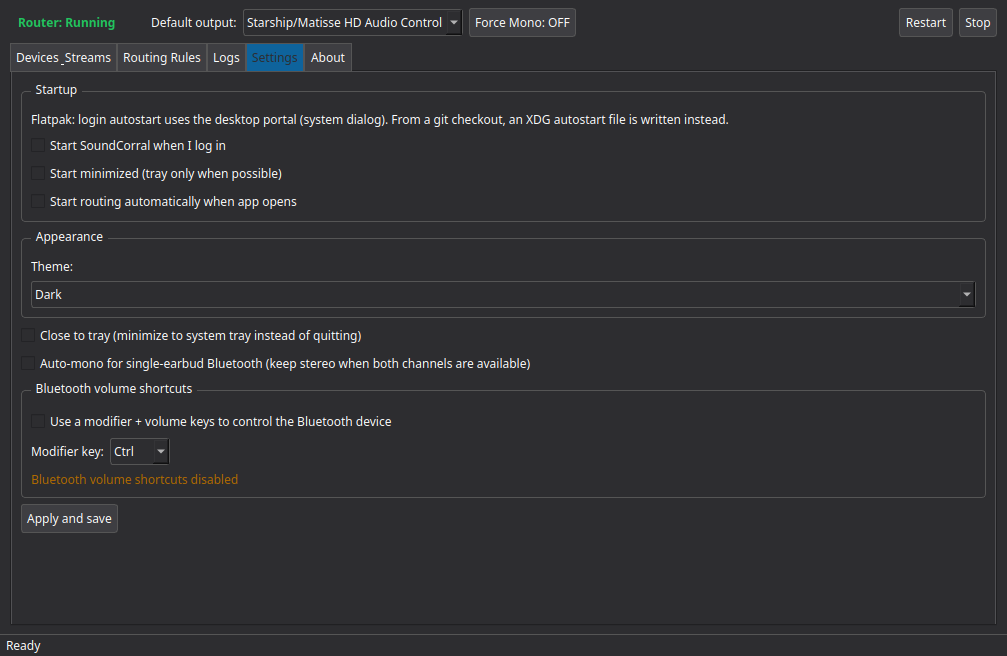
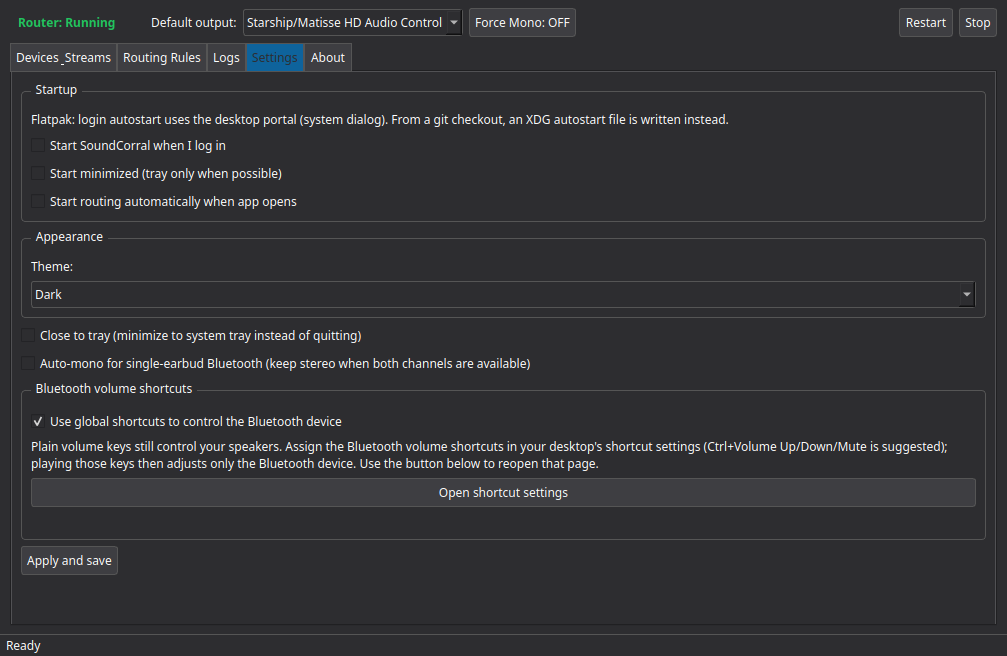
Fix shortcut signal path and explain Bluetooth volume shortcuts

Changed region(s): [[0.0308, 0.6098, 0.9543, 0.8841]]

diff --git a/src/audio_router_gui.py b/src/audio_router_gui.py
@@ -693,7 +693,6 @@ def _load_app_settings() -> Dict[str, Any]:
         "theme": str,
         "devices_streams_split_pct": int,
         "volume_shortcuts_enabled": bool,
-        "volume_shortcut_modifier": str,
     }
     s = QSettings("io.github.crashman79", "sinkswitch")
     out: Dict[str, Any] = {}
@@ -744,7 +743,6 @@ def _save_app_settings(data: Dict[str, Any]) -> None:
         "theme",
         "devices_streams_split_pct",
         "volume_shortcuts_enabled",
-        "volume_shortcut_modifier",
     }
     s = QSettings("io.github.crashman79", "sinkswitch")
     s.beginGroup("prefs")
@@ -1189,7 +1187,6 @@ class AudioRouterGUI(QMainWindow):
         self.devices_streams_split_pct = int(settings.get('devices_streams_split_pct', 50) or 50)
         self.devices_streams_split_pct = max(20, min(80, self.devices_streams_split_pct))
         self.volume_shortcuts_enabled = settings.get('volume_shortcuts_enabled', True)
-        self.volume_shortcut_modifier = settings.get('volume_shortcut_modifier', 'Ctrl')
         self._volume_engine: Optional['AudioRouterEngine'] = None
         self._status_icon_cache: Dict[str, QIcon] = {}
         self._device_type_icon_cache: Dict[str, QIcon] = {}
@@ -1752,29 +1749,28 @@ class AudioRouterGUI(QMainWindow):
         vol_group = QGroupBox("Bluetooth volume shortcuts")
         vol_layout = QVBoxLayout()
         self.volume_shortcuts_check = QCheckBox(
-            "Use a modifier + volume keys to control the Bluetooth device"
+            "Use global shortcuts to control the Bluetooth device"
         )
         self.volume_shortcuts_check.setChecked(self.volume_shortcuts_enabled)
         self.volume_shortcuts_check.setToolTip(
             "Plain volume keys still control your main/speaker output (handled by the "
-            "desktop). Hold the chosen modifier with Volume Up/Down/Mute to adjust the "
-            "Bluetooth device instead."
+            "desktop). The shortcut keys are assigned in your desktop's shortcut "
+            "settings; SoundCorral suggests Ctrl+Volume Up/Down/Mute."
         )
         vol_layout.addWidget(self.volume_shortcuts_check)
 
-        mod_row = QHBoxLayout()
-        mod_row.addWidget(QLabel("Modifier key:"))
-        self.volume_shortcut_modifier_combo = QComboBox()
-        self.volume_shortcut_modifier_combo.addItems(["Ctrl", "Super", "Alt"])
-        idx = {"Ctrl": 0, "Super": 1, "Alt": 2}.get(self.volume_shortcut_modifier, 0)
-        self.volume_shortcut_modifier_combo.setCurrentIndex(idx)
-        self.volume_shortcut_modifier_combo.setEnabled(self.volume_shortcuts_enabled)
-        self.volume_shortcuts_check.toggled.connect(
-            self.volume_shortcut_modifier_combo.setEnabled
+        explainer = QLabel(
+            "Plain volume keys still control your speakers. Assign the Bluetooth "
+            "volume shortcuts in your desktop's shortcut settings (Ctrl+Volume "
+            "Up/Down/Mute is suggested); playing those keys then adjusts only the "
+            "Bluetooth device. Use the button below to reopen that page."
         )
-        mod_row.addWidget(self.volume_shortcut_modifier_combo)
-        mod_row.addStretch()
-        vol_layout.addLayout(mod_row)
+        explainer.setWordWrap(True)
+        vol_layout.addWidget(explainer)
+
+        self.open_shortcuts_btn = QPushButton("Open shortcut settings")
+        self.open_shortcuts_btn.clicked.connect(self._open_shortcut_settings)
+        vol_layout.addWidget(self.open_shortcuts_btn)
 
         self.volume_shortcuts_status_label = QLabel("")
         self.volume_shortcuts_status_label.setWordWrap(True)
@@ -1949,7 +1945,6 @@ class AudioRouterGUI(QMainWindow):
         close_to_tray = self.close_to_tray_check.isChecked()
         auto_mono_single_channel_bluetooth = self.auto_mono_single_channel_bluetooth_check.isChecked()
         volume_shortcuts_enabled = self.volume_shortcuts_check.isChecked()
-        volume_shortcut_modifier = self.volume_shortcut_modifier_combo.currentText()
         theme_map = {0: "system", 1: "light", 2: "dark"}
         theme = theme_map.get(self.theme_combo.currentIndex(), "system")
         mono_changed = auto_mono_single_channel_bluetooth != self.auto_mono_single_channel_bluetooth
@@ -1959,7 +1954,6 @@ class AudioRouterGUI(QMainWindow):
         self.close_to_tray = close_to_tray
         self.auto_mono_single_channel_bluetooth = auto_mono_single_channel_bluetooth
         self.volume_shortcuts_enabled = volume_shortcuts_enabled
-        self.volume_shortcut_modifier = volume_shortcut_modifier
         self.theme_setting = theme
         _save_app_settings({
             **_load_app_settings(),
@@ -1971,7 +1965,6 @@ class AudioRouterGUI(QMainWindow):
             'force_bluetooth_mono': self.force_bluetooth_mono,
             'theme': theme,
             'volume_shortcuts_enabled': volume_shortcuts_enabled,
-            'volume_shortcut_modifier': volume_shortcut_modifier,
         })
         # Defer palette apply to next event loop to avoid re-entrancy crash in Qt
         app = QApplication.instance()
@@ -2095,7 +2088,17 @@ class AudioRouterGUI(QMainWindow):
                 ACTION_VOLUME_DOWN: lambda: self._on_bt_volume_action(ACTION_VOLUME_DOWN),
                 ACTION_MUTE: lambda: self._on_bt_volume_action(ACTION_MUTE),
             },
-            modifier=self.volume_shortcut_modifier,
+        )
+
+    def _open_shortcut_settings(self) -> None:
+        """Reopen the desktop's shortcut configuration for this app."""
+        ctrl = getattr(self, "volume_shortcuts_controller", None)
+        if ctrl is not None and ctrl.configure():
+            self.statusBar().showMessage("Opening shortcut settings...", 2500)
+            return
+        self._on_volume_shortcuts_status(
+            "warn",
+            "Enable the Bluetooth volume shortcuts first, then open the shortcut settings.",
         )
 
     def _on_volume_shortcuts_status(self, level: str, message: str) -> None:

diff --git a/src/global_shortcuts.py b/src/global_shortcuts.py
@@ -117,6 +117,7 @@ class GlobalShortcutsController(QObject):
         self._session_handle: Optional[str] = None
         self._thread: Optional[threading.Thread] = None
         self._stop_event = threading.Event()
+        self._configure_requested = threading.Event()
         self.status_changed.connect(self._on_status_changed)
         self.activated.connect(self._on_activated_action)
 
@@ -151,6 +152,7 @@ class GlobalShortcutsController(QObject):
 
         self._handlers = dict(handlers)
         self._stop_event = threading.Event()
+        self._configure_requested = threading.Event()
         self._thread = threading.Thread(
             target=self._run,
             args=(modifier,),
@@ -160,9 +162,17 @@ class GlobalShortcutsController(QObject):
         self._thread.start()
         return True
 
+    def configure(self) -> bool:
+        """Ask the running session to open the desktop's shortcut settings."""
+        if not self._session_handle or not self._thread or not self._thread.is_alive():
+            return False
+        self._configure_requested.set()
+        return True
+
     def stop(self) -> None:
         """Close the session and release any bound shortcuts."""
         self._stop_event.set()
+        self._configure_requested.clear()
         thread = self._thread
         if thread is not None and thread.is_alive():
             thread.join(timeout=3.0)
@@ -382,13 +392,18 @@ class GlobalShortcutsController(QObject):
             )
 
     def _listen(self, conn, session: str) -> None:
+        # Portal signals are emitted on the portal object path; the session
+        # handle is the first argument, not the signal path.
         rule = MatchRule(
             type="signal",
             interface=PORTAL_IFACE,
-            path=session,
+            path=PORTAL_PATH,
         )
         with conn.filter(rule) as queue:
             while not self._stop_event.is_set():
+                if self._configure_requested.is_set():
+                    self._configure_requested.clear()
+                    self._configure_shortcuts(conn, session)
                 try:
                     message = conn.recv_until_filtered(queue, timeout=1.0)
                 except TimeoutError:
@@ -399,6 +414,8 @@ class GlobalShortcutsController(QObject):
                 member = message.header.fields.get(HeaderFields.member)
                 args = message.body
                 if len(args) < 2:
+                    continue
+                if str(_variant_value(args[0])) != session:
                     continue
                 if member == "Activated":
                     shortcut_id = _variant_value(args[1])

diff --git a/README.md b/README.md
@@ -118,12 +118,23 @@ If your desktop provides a system tray, SoundCorral adds an icon with **Show**, 
 | Theme | System (follow desktop) | Follows your desktop theme, or forces Light or Dark. |
 | Close to tray | Off | Closing the window hides it in the tray instead of quitting. |
 | Auto-mono for single-earbud Bluetooth | On | Mixes stereo to mono when a one-channel Bluetooth output is detected; keeps stereo when both channels are available. |
-| Use a modifier + volume keys to control the Bluetooth device | On | Enables the optional modifier + volume shortcut described below. |
-| Modifier key | Ctrl | The modifier used with Volume Up, Volume Down, and Mute (Ctrl, Super, or Alt). |
+| Use global shortcuts to control the Bluetooth device | On | Enables the optional Bluetooth volume shortcuts described below. |
 
-The **Bluetooth volume shortcuts** option lets you control only the Bluetooth output with a modifier plus the normal volume keys, for example Ctrl + Volume Up. Plain volume keys still control your speakers through your desktop as usual. This uses the desktop's Global Shortcuts portal.
+### Bluetooth volume shortcuts
 
-The first time you enable it, your desktop may show a shortcut permission/configuration dialog. Accept it to bind the three shortcuts. If your desktop does not assign the keys automatically, SoundCorral opens the shortcut settings for you; alternatively, open **System Settings → Shortcuts**, find SoundCorral, and assign the Bluetooth volume shortcuts there. The status line under the setting tells you whether the keys are active or still need to be assigned. If the portal is unavailable or you deny the request, the rest of the app still works normally.
+If you want a shortcut that changes only the Bluetooth device's volume while the plain volume keys keep controlling your speakers, enable **Use global shortcuts to control the Bluetooth device**.
+
+SoundCorral suggests **Ctrl+Volume Up**, **Ctrl+Volume Down**, and **Ctrl+Volume Mute**, but the actual keys are assigned in your desktop's shortcut settings:
+
+1. Enable the option and click **Apply and save**.
+2. Your desktop may show a shortcut approval/configuration dialog. Approve the three SoundCorral shortcuts.
+3. If the dialog does not appear, click **Open shortcut settings** in SoundCorral, or open **System Settings → Shortcuts**, find **SoundCorral**, and assign:
+   - Raise Bluetooth volume → `Ctrl+Volume Up`
+   - Lower Bluetooth volume → `Ctrl+Volume Down`
+   - Mute or unmute Bluetooth → `Ctrl+Volume Mute`
+4. The status line under the setting tells you whether the keys are active.
+
+Plain volume keys still control your speakers through your desktop as usual. The shortcuts control only the Bluetooth device, not the system default output. This uses the desktop's Global Shortcuts portal; a bare modifier alone is not supported, so the shortcut must be a key combination. If the portal is unavailable or you deny the request, the rest of the app still works normally.
 
 ## Rules file
 
